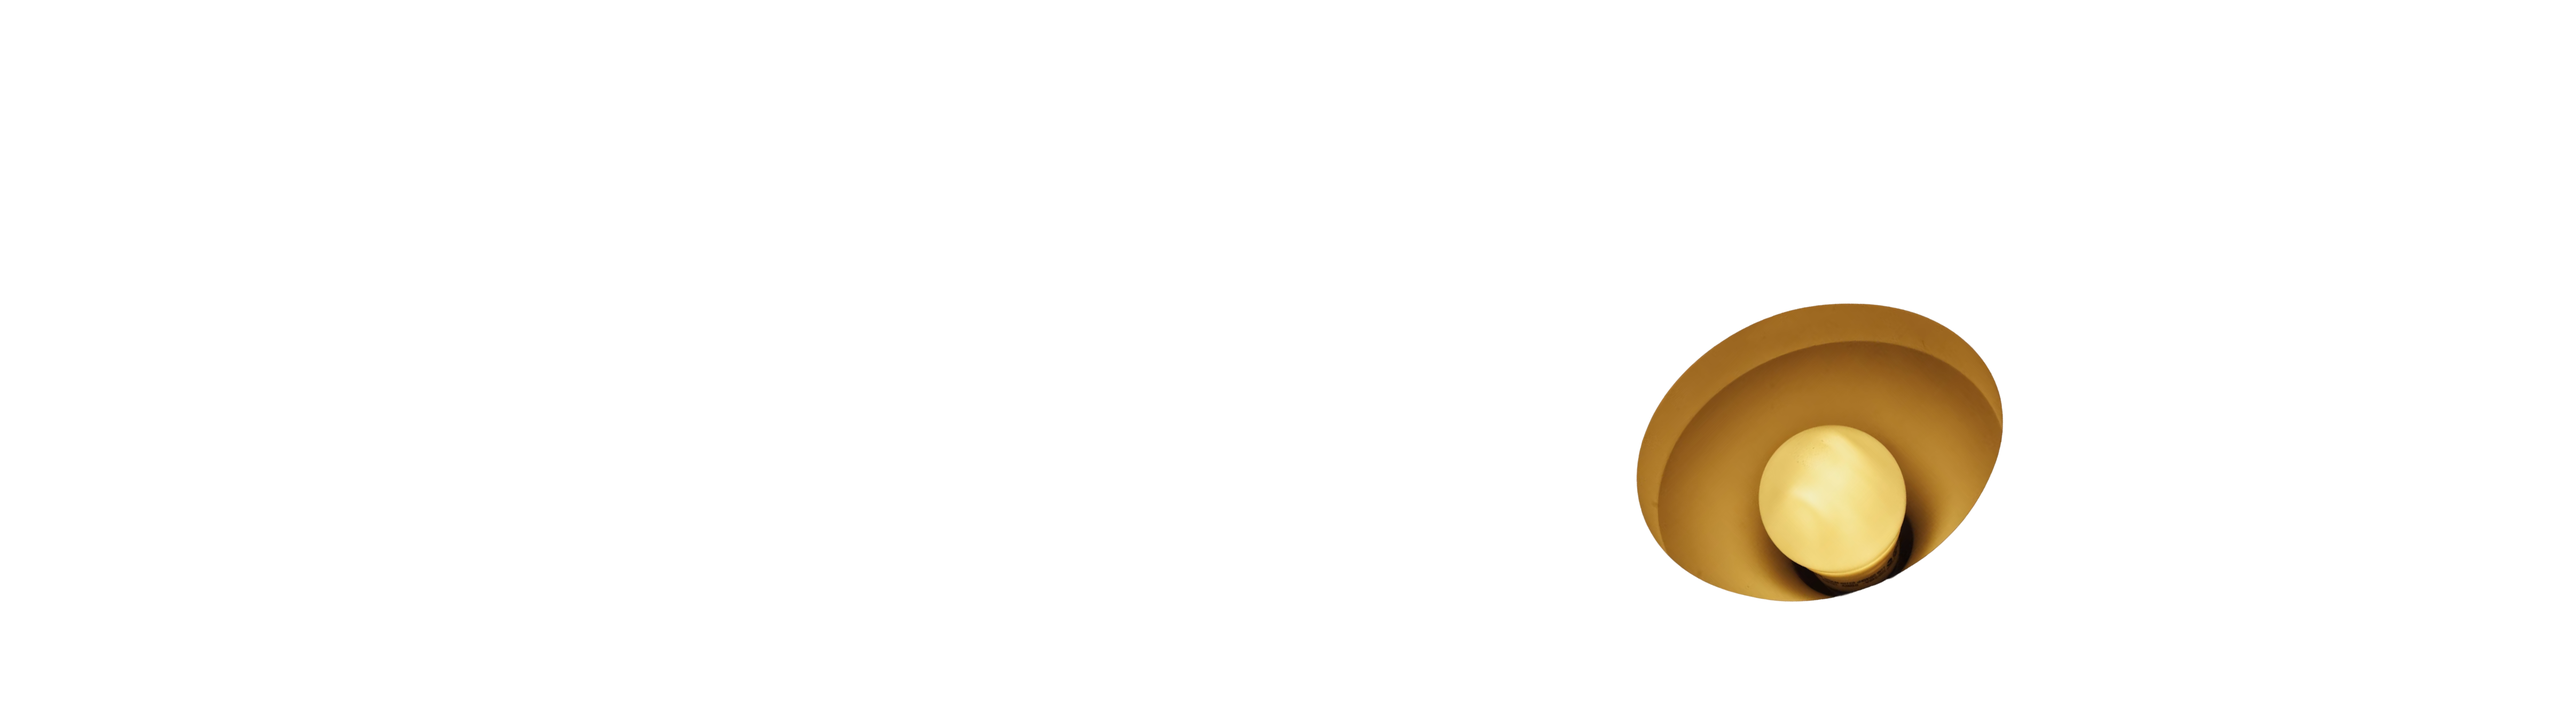
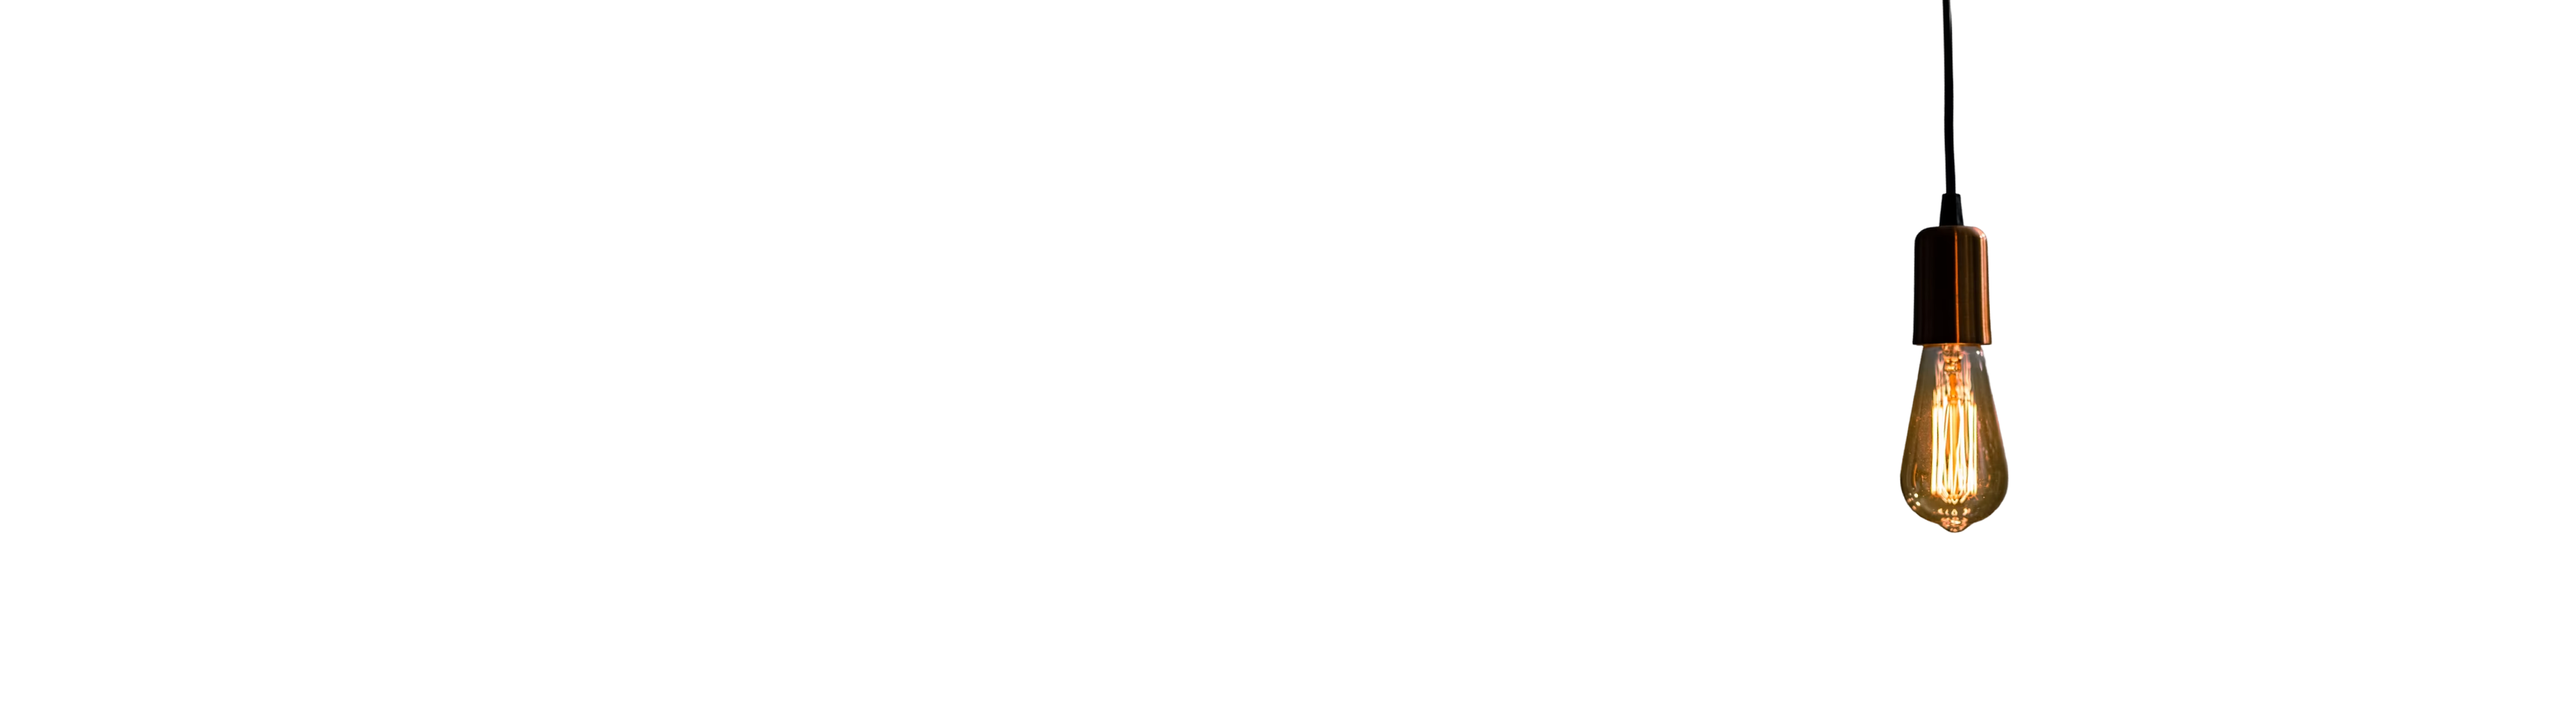
Update pricing card colors, accent color, and various content tweaks
- Change middle pricing card to black with adapted text colors
- Update accent/primary color to #15616D (was purple)
- Add browser-language auto-detection for FR/EN default
- Update quote background image, hero location copy, CV button icon
- Increase spacing around pricing card CTA buttons

Changed region(s): [[0.6219, 0.0, 0.7774, 0.8632]]

diff --git a/src/app/page.tsx b/src/app/page.tsx
@@ -62,7 +62,7 @@ export default function Home() {
               href="https://calendly.com/abrajaofetra/30min"
               target="_blank"
               rel="noopener noreferrer"
-              className="group inline-flex w-full items-center justify-center gap-2 bg-[#6200B3] px-8 py-4 text-base font-medium text-white transition-opacity hover:opacity-90 sm:w-auto"
+              className="group inline-flex w-full items-center justify-center gap-2 bg-[#15616D] px-8 py-4 text-base font-medium text-white transition-opacity hover:opacity-90 sm:w-auto"
             >
               {t.hero.ctaPrimary}
               <svg
@@ -83,7 +83,7 @@ export default function Home() {
             </a>
             <Link
               href="#work"
-              className="w-full bg-white px-8 py-4 text-center text-base font-medium text-[#6200B3] transition-opacity hover:opacity-70 sm:w-auto"
+              className="w-full bg-white px-8 py-4 text-center text-base font-medium text-[#15616D] transition-opacity hover:opacity-70 sm:w-auto"
             >
               {t.hero.ctaSecondary}
             </Link>
@@ -172,7 +172,7 @@ export default function Home() {
 
       <section className="relative overflow-hidden bg-black py-32">
         <Parallax strength={50} className="absolute -inset-y-16 inset-x-0">
-          <Image src="/quotebackground.png?v=2" alt="" fill className="object-cover" />
+          <Image src="/quotebackground.png?v=5" alt="" fill className="object-cover" />
         </Parallax>
         <Reveal className="relative mx-auto max-w-6xl 2xl:max-w-7xl px-6">
           <svg
@@ -180,7 +180,7 @@ export default function Home() {
             xmlns="http://www.w3.org/2000/svg"
             viewBox="0 0 191.029 191.029"
             fill="currentColor"
-            className="h-8 w-8 text-[#c9a227] sm:h-10 sm:w-10"
+            className="h-8 w-8 text-[#15616D] sm:h-10 sm:w-10"
           >
             <path d="M44.33,88.474v15.377h38.417v82.745H0v-82.745h0.002V88.474c0-31.225,8.984-54.411,26.704-68.918C38.964,9.521,54.48,4.433,72.824,4.433v44.326C62.866,48.759,44.33,48.759,44.33,88.474z M181.107,48.759V4.433c-18.343,0-33.859,5.088-46.117,15.123c-17.72,14.507-26.705,37.694-26.705,68.918v15.377h0v82.745h82.744v-82.745h-38.417V88.474C152.613,48.759,171.149,48.759,181.107,48.759z" />
           </svg>
@@ -206,7 +206,7 @@ export default function Home() {
                 <ul className="mt-4 space-y-2 text-lg leading-relaxed text-muted">
                   {t.about.skills.map((skill) => (
                     <li key={skill} className="flex items-center gap-3">
-                      <span className="h-1.5 w-1.5 shrink-0 rounded-full bg-[#6200B3]" />
+                      <span className="h-1.5 w-1.5 shrink-0 rounded-full bg-[#15616D]" />
                       {skill}
                     </li>
                   ))}
@@ -219,7 +219,7 @@ export default function Home() {
                 <ul className="mt-4 space-y-2 text-lg leading-relaxed text-muted">
                   {tools.map((tool) => (
                     <li key={tool} className="flex items-center gap-3">
-                      <span className="h-1.5 w-1.5 shrink-0 rounded-full bg-[#6200B3]" />
+                      <span className="h-1.5 w-1.5 shrink-0 rounded-full bg-[#15616D]" />
                       {tool}
                     </li>
                   ))}
@@ -244,21 +244,31 @@ export default function Home() {
           <div className="mt-10 grid gap-4 sm:grid-cols-2 lg:grid-cols-3">
             {t.home.pricingPlans.map((plan, i) => (
               <Reveal key={plan.name} delay={i * 250}>
-                <div className="flex flex-col bg-[#ececee] p-8 pt-12 pb-12">
-                  <h3 className="text-xl font-bold text-foreground">{plan.name}</h3>
-                  <p className={`mt-6 text-sm ${i === 0 ? "text-transparent" : "text-muted"}`}>
+                <div className={`flex flex-col p-8 pt-12 pb-12 ${i === 1 ? "bg-black" : "bg-[#ececee]"}`}>
+                  <h3 className={`text-xl font-bold ${i === 1 ? "text-white" : "text-foreground"}`}>
+                    {plan.name}
+                  </h3>
+                  <p
+                    className={`mt-6 text-sm ${
+                      i === 0 ? "text-transparent" : i === 1 ? "text-white/70" : "text-muted"
+                    }`}
+                  >
                     {plan.pricePrefix}
                   </p>
-                  <p className="mt-1 text-4xl font-extrabold text-foreground">{plan.price}</p>
-                  <p className="mt-3 text-sm text-muted">{plan.description}</p>
+                  <p className={`mt-1 text-4xl font-extrabold ${i === 1 ? "text-white" : "text-foreground"}`}>
+                    {plan.price}
+                  </p>
+                  <p className={`mt-3 text-sm ${i === 1 ? "text-white/70" : "text-muted"}`}>
+                    {plan.description}
+                  </p>
                   <a
                     href="https://calendly.com/abrajaofetra/30min"
                     target="_blank"
                     rel="noopener noreferrer"
-                    className={`group mt-6 flex w-full items-center justify-center gap-2 px-8 py-4 text-sm font-medium ${
+                    className={`group mt-10 flex w-full items-center justify-center gap-2 px-8 py-4 text-sm font-medium ${
                       i === 1
-                        ? "bg-[#6200B3] text-white transition-opacity hover:opacity-70"
-                        : "bg-white text-[#6200B3]"
+                        ? "bg-[#15616D] text-white transition-opacity hover:opacity-70"
+                        : "bg-white text-[#15616D]"
                     }`}
                   >
                     {t.home.pricingCta}
@@ -278,9 +288,12 @@ export default function Home() {
                       <path d="M19 5L5 19" />
                     </svg>
                   </a>
-                  <ul className="mt-6 flex flex-1 flex-col gap-3">
+                  <ul className="mt-10 flex flex-1 flex-col gap-3">
                     {plan.features.map((feature) => (
-                      <li key={feature} className="flex items-center gap-2 text-sm text-foreground">
+                      <li
+                        key={feature}
+                        className={`flex items-center gap-2 text-sm ${i === 1 ? "text-white" : "text-foreground"}`}
+                      >
                         <svg
                           xmlns="http://www.w3.org/2000/svg"
                           width="16"

diff --git a/src/components/cv-modal-button.tsx b/src/components/cv-modal-button.tsx
@@ -56,7 +56,7 @@ export function CvModalButton({ label }: { label: string }) {
       <button
         type="button"
         onClick={() => setOpen(true)}
-        className="group mt-14 inline-flex w-full cursor-pointer items-center justify-center gap-2 bg-[#6200B3] px-8 py-4 text-base font-medium text-white transition-opacity hover:opacity-90 sm:w-fit sm:justify-start"
+        className="mt-14 inline-flex w-full cursor-pointer items-center justify-center gap-2 bg-[#15616D] px-8 py-4 text-base font-medium text-white transition-opacity hover:opacity-90 sm:w-fit sm:justify-start"
       >
         <svg
           xmlns="http://www.w3.org/2000/svg"
@@ -68,11 +68,10 @@ export function CvModalButton({ label }: { label: string }) {
           strokeWidth="2"
           strokeLinecap="round"
           strokeLinejoin="round"
-          className="h-6 w-6 opacity-100 transition-all duration-200 sm:w-0 sm:opacity-0 sm:group-hover:w-6 sm:group-hover:opacity-100"
+          className="h-6 w-6"
         >
-          <path d="M12 17V3" />
-          <path d="m6 11 6 6 6-6" />
-          <path d="M19 21H5" />
+          <path d="M12 5v14" />
+          <path d="m19 12-7 7-7-7" />
         </svg>
         {label}
       </button>
@@ -159,7 +158,7 @@ export function CvModalButton({ label }: { label: string }) {
                   <button
                     type="submit"
                     disabled={status === "sending"}
-                    className="mt-2 cursor-pointer bg-[#6200B3] px-8 py-4 text-base font-medium text-white transition-opacity hover:opacity-90 disabled:cursor-not-allowed disabled:opacity-60"
+                    className="mt-2 cursor-pointer bg-[#15616D] px-8 py-4 text-base font-medium text-white transition-opacity hover:opacity-90 disabled:cursor-not-allowed disabled:opacity-60"
                   >
                     {status === "sending" ? t.cvModal.sending : t.cvModal.submitCta}
                   </button>

diff --git a/src/lib/dictionary.ts b/src/lib/dictionary.ts
@@ -6,7 +6,7 @@ export const dictionaries = {
     whatsapp: { tooltip: "Discutons par WhatsApp" },
     hero: {
       kicker: "Product UX/UI Designer",
-      location: "Basé à Madagascar, Disponible à l'international",
+      location: "Basé à Madagascar · Collaborations internationales",
       bio: "Je transforme des besoins produit complexes en interfaces claires et utilisables.",
       ctaPrimary: "Réserver un appel",
       ctaSecondary: "Voir mes projets",
@@ -104,7 +104,7 @@ export const dictionaries = {
     whatsapp: { tooltip: "Chat on WhatsApp" },
     hero: {
       kicker: "Product UX/UI Designer",
-      location: "Based in Madagascar, Available internationally",
+      location: "Based in Madagascar · International collaborations",
       bio: "I turn complex\nproduct needs into clear,\nusable interfaces.",
       ctaPrimary: "Book a call",
       ctaSecondary: "See my work",

diff --git a/src/context/language-context.tsx b/src/context/language-context.tsx
@@ -22,7 +22,14 @@ export function LanguageProvider({ children }: { children: ReactNode }) {
       // One-time sync from localStorage on mount; SSR always starts at "fr".
       // eslint-disable-next-line react-hooks/set-state-in-effect
       setLang(stored);
+      return;
     }
+
+    // No saved preference yet: default based on the visitor's browser language
+    // (French-speaking locales get French, everyone else gets English).
+    const browserLang = navigator.language || navigator.languages?.[0] || "";
+    const detected: Lang = browserLang.toLowerCase().startsWith("fr") ? "fr" : "en";
+    setLang(detected);
   }, []);
 
   useEffect(() => {

diff --git a/src/components/footer.tsx b/src/components/footer.tsx
@@ -62,7 +62,7 @@ export function Footer() {
           <button
             type="button"
             onClick={handleCopyEmail}
-            className="block cursor-pointer text-left text-4xl font-bold text-foreground transition-colors hover:text-[#6200B3] sm:text-6xl"
+            className="block cursor-pointer text-left text-4xl font-bold text-foreground transition-colors hover:text-[#15616D] sm:text-6xl"
           >
             <CharReveal text="designbyblaise" className="block sm:inline" />
             <CharReveal text="@gmail.com" className="block sm:inline" />

diff --git a/src/data/projects.ts b/src/data/projects.ts
@@ -30,7 +30,7 @@ export const projects: Project[] = [
     role: { fr: "Recherche & UI Design", en: "Research & UI design" },
     year: "2024",
     tags: ["Application mobile", "Logistique"],
-    gradient: ["#fdba74", "#c2410c"],
+    gradient: ["#6bb0ca", "#087ca7"],
     cover: "/CaseCover1.png?v=6",
     externalUrl: "https://www.behance.net/gallery/255425233/UXUI-Case-Study-Crowdshipping-App",
   },

diff --git a/src/data/shots.ts b/src/data/shots.ts
@@ -4,7 +4,7 @@ export interface Shot {
 }
 
 export const shots: Shot[] = [
-  { gradient: ["#fdba74", "#c2410c"], image: "/shot1.png" },
+  { gradient: ["#6bb0ca", "#087ca7"], image: "/shot1.png" },
   { gradient: ["#93c5fd", "#1d4ed8"], image: "/shot2.png" },
   { gradient: ["#86efac", "#15803d"], image: "/shot3.png" },
   { gradient: ["#c4b5fd", "#6d28d9"], image: "/shot4.png" },

diff --git a/src/data/testimonials.ts b/src/data/testimonials.ts
@@ -17,7 +17,7 @@ export const testimonials: Testimonial[] = [
     },
     name: "XKS Group",
     role: { fr: "", en: "" },
-    gradient: ["#fdba74", "#c2410c"],
+    gradient: ["#6bb0ca", "#087ca7"],
     image: "/testimonial.png",
   },
   {

diff --git a/src/app/globals.css b/src/app/globals.css
@@ -7,7 +7,7 @@
   --foreground: #18181b;
   --muted: #71717a;
   --border: #e4e4e7;
-  --accent: #c2410c;
+  --accent: #087ca7;
   --accent-foreground: #fff7ed;
 }
 
